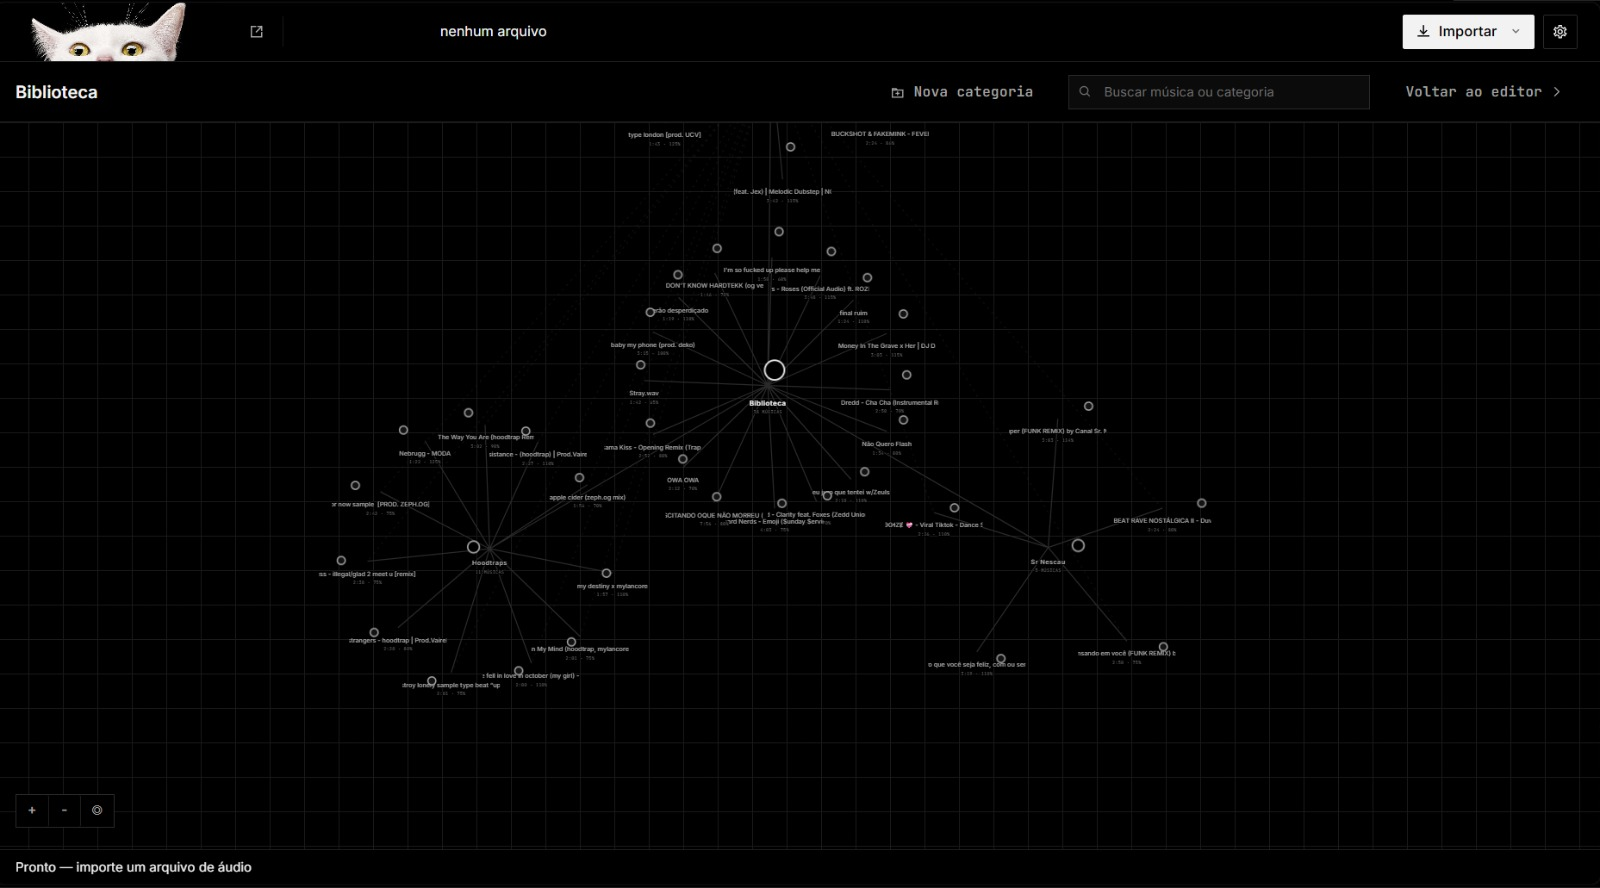
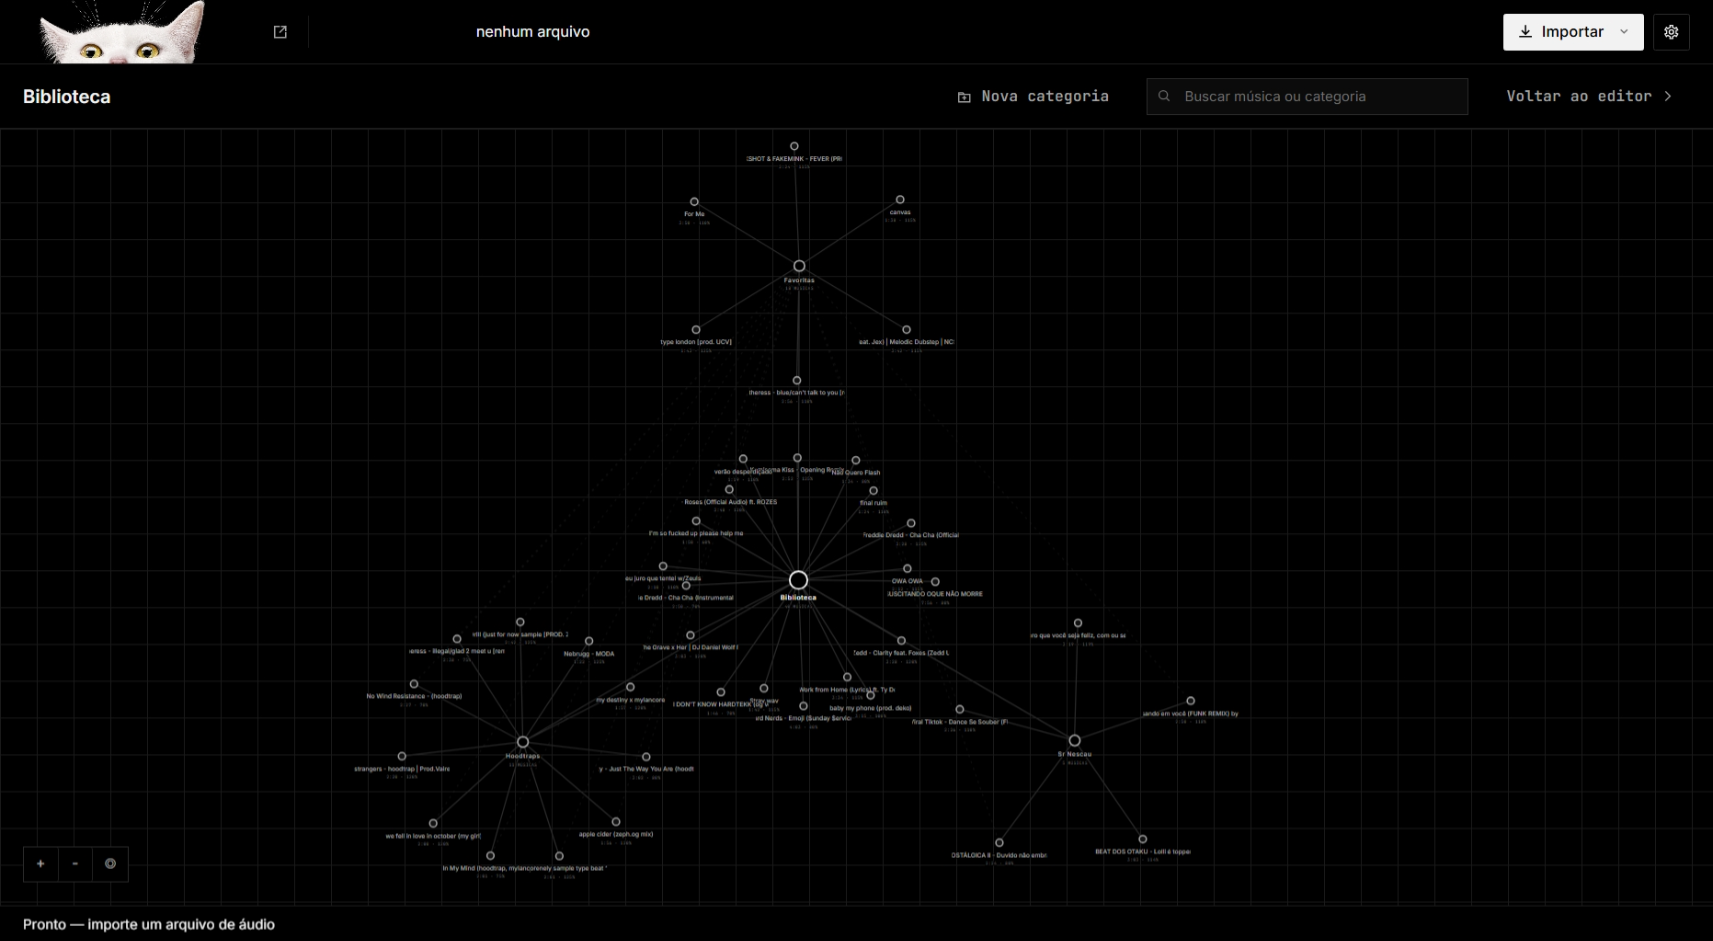
style: present product screenshots without frames

diff --git a/website/app/globals.css b/website/app/globals.css
@@ -81,12 +81,8 @@ button, a { -webkit-tap-highlight-color: transparent; }
 .section-heading h2, .demo-copy h2, .footer-copy h2 { margin: 0; font-size: clamp(48px, 6.6vw, 112px); line-height: .9; letter-spacing: -.06em; font-weight: 520; }
 .section-heading > p:last-child, .demo-copy > p:last-child { margin: 0 0 6px; color: var(--text-2); font-size: 17px; line-height: 1.65; }
 
-.interface-frame { margin: 0; border: 1px solid var(--border); background: var(--surface); overflow: hidden; box-shadow: 0 40px 100px rgba(0,0,0,.5); }
-.interface-frame img { display: block; width: 100%; height: auto; background: #000; filter: saturate(0); }
-.frame-bar, .interface-frame figcaption { min-height: 42px; padding-inline: 16px; display: flex; align-items: center; justify-content: space-between; color: var(--text-3); font: 500 9px/1 var(--font-mono); letter-spacing: .14em; }
-.frame-bar { border-bottom: 1px solid var(--border); }
-.interface-frame figcaption { border-top: 1px solid var(--border); }
-.interface-frame-editor { transform: perspective(1400px) rotateX(1.25deg); transform-origin: center top; }
+.product-shot { margin: 0; }
+.product-shot img { display: block; width: 100%; height: auto; }
 
 .feature-split { display: grid; grid-template-columns: minmax(300px, .72fr) minmax(0, 1.28fr); gap: clamp(48px, 7vw, 112px); align-items: center; }
 .feature-split .section-heading { display: block; margin: 0; }
@@ -203,7 +199,6 @@ button, a { -webkit-tap-highlight-color: transparent; }
 @keyframes footer-marquee-x { to { transform: translateX(-50%); } }
 
 @media (max-width: 620px) {
-  .frame-bar span:last-child, .interface-frame figcaption span:last-child { display: none; }
   .numbers-grid { grid-template-columns: 1fr; }
   .numbers-grid > div { min-height: 150px; border-right: 0; border-bottom: 1px solid var(--border); }
   .numbers-grid > div:last-child { border-bottom: 0; }

diff --git a/website/app/page.tsx b/website/app/page.tsx
@@ -78,20 +78,12 @@ export default function Home() {
           </p>
         </div>
 
-        <figure className="interface-frame interface-frame-editor reveal feature-visual">
-          <div className="frame-bar" aria-hidden="true">
-            <span>VARISPEED / EDITOR</span>
-            <span>100.0%</span>
-          </div>
+        <figure className="product-shot reveal feature-visual">
           <img
             src="/varispeed-editor.png"
             alt="Editor real do VARISPEED com timeline, controle de velocidade e informações de áudio"
             loading="lazy"
           />
-          <figcaption>
-            <span>CONTROLE DIRETO</span>
-            <span>SEM CORREÇÃO DE PITCH</span>
-          </figcaption>
         </figure>
       </section>
 
@@ -115,20 +107,12 @@ export default function Home() {
             </p>
           </div>
 
-          <figure className="interface-frame reveal feature-visual">
-            <div className="frame-bar" aria-hidden="true">
-              <span>VARISPEED / BIBLIOTECA REAL</span>
-              <span>GRAFO EM REPOUSO</span>
-            </div>
+          <figure className="product-shot reveal feature-visual">
             <img
               src="/varispeed-library.png"
               alt="Biblioteca real do VARISPEED mostrando músicas conectadas no grafo"
               loading="lazy"
             />
-            <figcaption>
-              <span>CADA ARQUIVO OCUPA UM LUGAR</span>
-              <span>O MAPA CRESCE COM VOCÊ</span>
-            </figcaption>
           </figure>
         </div>
       </section>
